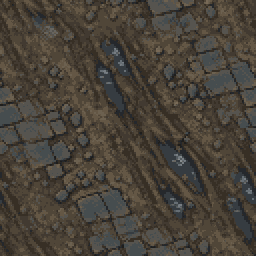
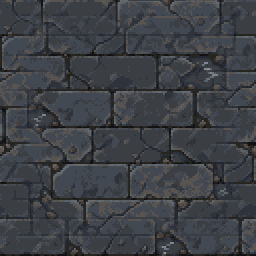
攻城城墙换高清素材：墙体两式交替、竖栅门、横栅；城郭地面改青灰城砖
原版攻城只多调 lib306 一张（三格 16×16，c.g() 按 32/2/16 选格）。
新素材 2×2 一张出四格：墙体给两式、按 (x+y) 奇偶交替铺——
一整条墙全是同一块，像复制粘贴；另两格是竖栅门和横栅。
城墙那支裁切不做半格位移混合，那一步会把垛口和栅门糊成一团。

城郭地面跟着从灰黄夯土改成青灰城砖：灰砖墙块摆在黄土上像浮着的，
改成同一种青灰砖、比墙顶暗一档，墙才立得起来。只重出动画那张
（游戏里优先读四帧，静态那格只是兜底），帧间平均差 2.7。

diff --git a/image-studio/clashground.js b/image-studio/clashground.js
@@ -25,8 +25,11 @@ const CELLS = [
   ['shan', '山地', '高处的山地：大片裸露的灰褐岩面与碎石坡，' +
                    '石缝里长着稀疏的高山草与苔，' +
                    '岩石的层理和裂纹是主要的纹理'],
-  ['gong', '城郭', '城墙内外被反复碾压的地面：夯实的灰黄土混着碎石与残破的青石板，' +
-                   '有深深的车辙沟痕与几摊积水'],
+  ['gong', '城郭', '**城内铺地的青灰城砖**：一块块长方砖错缝平铺，砖面被踩得发亮、' +
+                   '有磨损和裂纹，砖缝深而清楚，几处砖块缺角或下陷，' +
+                   '砖缝里积着一点尘土与两三摊小水洼。' +
+                   '**色调要和攻城战里那些城墙块统一**——同一种青灰砖，' +
+                   '但整体比墙顶暗一档、灰一档，这样墙块摆上去才立得起来'],
 ];
 
 function groundPrompt() {
@@ -101,8 +104,8 @@ const ANIM = {
         '**船板、铁链、缆绳、铁环一个像素都不许动**',
   shan: '石缝里那些稀疏的草与苔，梢头轻轻摇动；' +
         '**岩石本身、石头的层理与裂纹一个像素都不许动**',
-  gong: '车辙里那几摊积水的反光，四帧里细碎地挪动；' +
-        '**夯土、碎石、青石板与车辙的形状一个像素都不许动**',
+  gong: '砖缝里那两三摊小水洼的反光，四帧里细碎地挪动；' +
+        '**城砖、砖缝、裂纹与缺角一个像素都不许动**',
 };
 
 function animPrompt(key) {
@@ -138,5 +141,48 @@ const buildAnim = k => ({
 
 const buildAnims = () => CELLS.map(c => buildAnim(c[0]));
 
-module.exports = { CELLS, ANIM, buildGround, groundPrompt, buildShui, shuiPrompt,
+/* ── 攻城的城墙三件 ────────────────────────────────────────────────────
+   原版 lib306：三格 16×16，c.g() 按格值选——32 墙体 / 2 竖栅门 / 16 横栅。
+   这里 2×2 出四格：墙体给两式交替铺（一整条墙全是同一块，像复制粘贴），
+   另外两格是竖栅门和横栅。都是正俯视，要和相邻的墙块、和城郭那块地面接得上。 */
+const WALL_CELLS = [
+  ['wall_a', '墙体·一式', '一段夯土包砖的城墙顶面：灰黄的夯土芯、四周一圈灰砖女墙，' +
+                         '正中一个方形垛口，砖缝清楚，有几处风化的缺角'],
+  ['gate_v', '竖栅门',   '一道竖木栅门：七八根粗圆木竖着并排立起，木色深褐，' +
+                         '上下各一道横木箍着，木头之间露出缝，缝里是暗的'],
+  ['gate_h', '横栅',     '一道横木栅：粗圆木横着一根根叠起，像栅栏也像云梯，' +
+                         '木色深褐，两端各有一根竖桩固定'],
+  ['wall_b', '墙体·二式', '和第一格**同一种城墙**的另一段顶面：同样的夯土芯与灰砖女墙，' +
+                         '垛口位置略偏、砖缝走向略不同、缺角在别处——' +
+                         '两式交替铺开时看不出重复，但明显是同一道墙'],
+];
+
+function wallsPrompt() {
+  const list = WALL_CELLS.map(([, n, d], i) => `${i + 1}. ${n}：${d}`).join('\n');
+  return '像素画（pixel art）风格的**城墙构件表**，用于策略游戏战棋盘上的攻城战。\n' +
+    '**画面严格划分成 2 列 × 2 行、共 4 个等大的方格**，每格 512×512，' +
+    '格与格之间不画边框线也不画分隔线，**每格的内容必须铺满整格、顶到四边**，' +
+    '不要留空白边，也不要透明。\n\n' +
+    '【四格，从左到右、从上到下】\n' + list + '\n\n' +
+    '**视角是完全的正俯视**——从正上方垂直往下看，' +
+    '**不许有地平线、不许有天空、不许有任何东西的侧面或透视**；' +
+    '墙的高度只靠顶面边缘的一圈暗色投影来暗示。\n' +
+    '**四格的四边都要平直、能拼接**：两块墙体左右相邻、上下相邻时接缝要对得上，' +
+    '栅门左右两侧要能直接贴着墙体。\n' +
+    '色调和一块灰黄夯土、碎石与青石板的城郭地面放在一起要协调：' +
+    '墙比地面亮一档、更冷一点，这样铺在地上才分得出是墙。\n' +
+    '**严格的像素网格**：每个像素都是清晰的方块，边缘硬阶梯状，' +
+    '绝不做抗锯齿、不做柔化、不做渐变；色板受限，只用 12 到 16 色。\n' +
+    '画面中不得出现任何人物、旗帜、文字、水印、边框或UI元素。';
+}
+
+const buildWalls = () => ({
+  id: 'cgw_sheet', category: 'clashground', label: '攻城城墙·四格（2×2）',
+  meta: { 格数: 4 },
+  source: null, size: '1024x1024',
+  prompt: wallsPrompt(), status: 'idle', attempts: 0,
+});
+
+module.exports = { CELLS, ANIM, WALL_CELLS, buildWalls, wallsPrompt,
+                   buildGround, groundPrompt, buildShui, shuiPrompt,
                    animPrompt, buildAnim, buildAnims };

diff --git a/extract/mapgen/build_clashground.py b/extract/mapgen/build_clashground.py
@@ -10,6 +10,10 @@
    用法:
      静态  build_clashground.py <表.png> <输出目录> [水战单图.png]
      动画  build_clashground.py --anim <动画表目录> <输出目录>
+     城墙  build_clashground.py --walls <城墙表.png> <输出目录>
+
+   城墙那支**不做**半格位移混合——那一步会把垛口和栅门的结构糊成一团，
+   墙块本来就是一块块摆的，边缘对不对得上靠提示词里「四边平直、能拼接」。
 
    动画那支：一种地形一张 1024（2×2 = 四帧），切出来每一帧**各自**过一遍
    无缝处理。半格位移+混合是确定性的，四帧本来就近乎一样，处理完还是近乎一样，
@@ -20,7 +24,8 @@ from PIL import Image
 
 ARGS = sys.argv[1:]
 ANIM = ARGS and ARGS[0] == '--anim'
-if ANIM: ARGS = ARGS[1:]
+WALLS = ARGS and ARGS[0] == '--walls'
+if ANIM or WALLS: ARGS = ARGS[1:]
 SHEET, OUT = ARGS[0], ARGS[1]
 SHUI = ARGS[2] if len(ARGS) > 2 else None
 N, COLORS = 256, 16
@@ -35,6 +40,18 @@ def seamless(img, dst):
                     raw, dst, str(N), str(COLORS)], check=True)
     os.remove(raw)
 
+
+if WALLS:
+    W = 128
+    sh = Image.open(SHEET).convert('RGB')
+    if sh.size != (1024, 1024): sh = sh.resize((1024, 1024), Image.LANCZOS)
+    for i, k in enumerate(['wall_a', 'gate_v', 'gate_h', 'wall_b']):
+        c = sh.crop((i % 2 * 512, i // 2 * 512, i % 2 * 512 + 512, i // 2 * 512 + 512))
+        c = c.resize((W, W), Image.BOX).quantize(colors=COLORS, method=Image.MAXCOVERAGE,
+                                                  dither=Image.Dither.NONE).convert('RGB')
+        c.save(os.path.join(OUT, 'cg_%s.png' % k))
+        print('%-7s → cg_%s.png  %d×%d' % (k, k, W, W))
+    raise SystemExit
 
 if ANIM:
     import glob, itertools

diff --git a/unity/SangoCityView/Assets/Scripts/ClashView.cs b/unity/SangoCityView/Assets/Scripts/ClashView.cs
@@ -601,8 +601,19 @@ public class ClashView
 
     // lib306 是 48×16 的三块，拿来当墙体 / 门 / 角楼
     static Texture2D wallTex; static readonly Dictionary<int, Sprite> wallCache = new Dictionary<int, Sprite>();
-    static Sprite WallTile(int v)
+    /// 城墙一格。新素材在 battle/clashground/cg_wall_a|wall_b|gate_v|gate_h.png：
+    /// 墙体按 (x+y) 奇偶两式交替铺，免得一整条墙像复制粘贴。没有就退回 lib306。
+    static Sprite WallTile(int v, int x, int y)
     {
+        string k = v == 32 ? ((x + y) % 2 == 0 ? "wall_a" : "wall_b") : v == 2 ? "gate_v" : "gate_h";
+        var rel = Path.Combine("clashground", "cg_" + k + ".png");
+        if (File.Exists(Path.Combine(ArtDir, "battle", rel)))
+        {
+            if (wallCache.TryGetValue(k.GetHashCode(), out var ns)) return ns;
+            var t = Tex(rel);
+            ns = Sprite.Create(t, new Rect(0, 0, t.width, t.height), new Vector2(.5f, .5f), 100);
+            wallCache[k.GetHashCode()] = ns; return ns;
+        }
         if (wallCache.TryGetValue(v, out var sp)) return sp;
         if (wallTex == null) wallTex = Tex("orig/lib306.png");
         // 原版 c.g(byte)：32→0(墙体) 2→1(竖栅) 16→2(横栅)。
@@ -672,7 +683,7 @@ public class ClashView
         {
             var im = Node("w", gridRoot).gameObject.AddComponent<Image>();
             Place((RectTransform)im.transform, kv.Key.x * C, kv.Key.y * C, C, C);
-            im.sprite = WallTile(kv.Value);     // lib306 的三段：墙体 / 门 / 角
+            im.sprite = WallTile(kv.Value, kv.Key.x, kv.Key.y);
             im.raycastTarget = false; tmp.Add(im.gameObject);
         }
         DrawSide(mine,   true);
